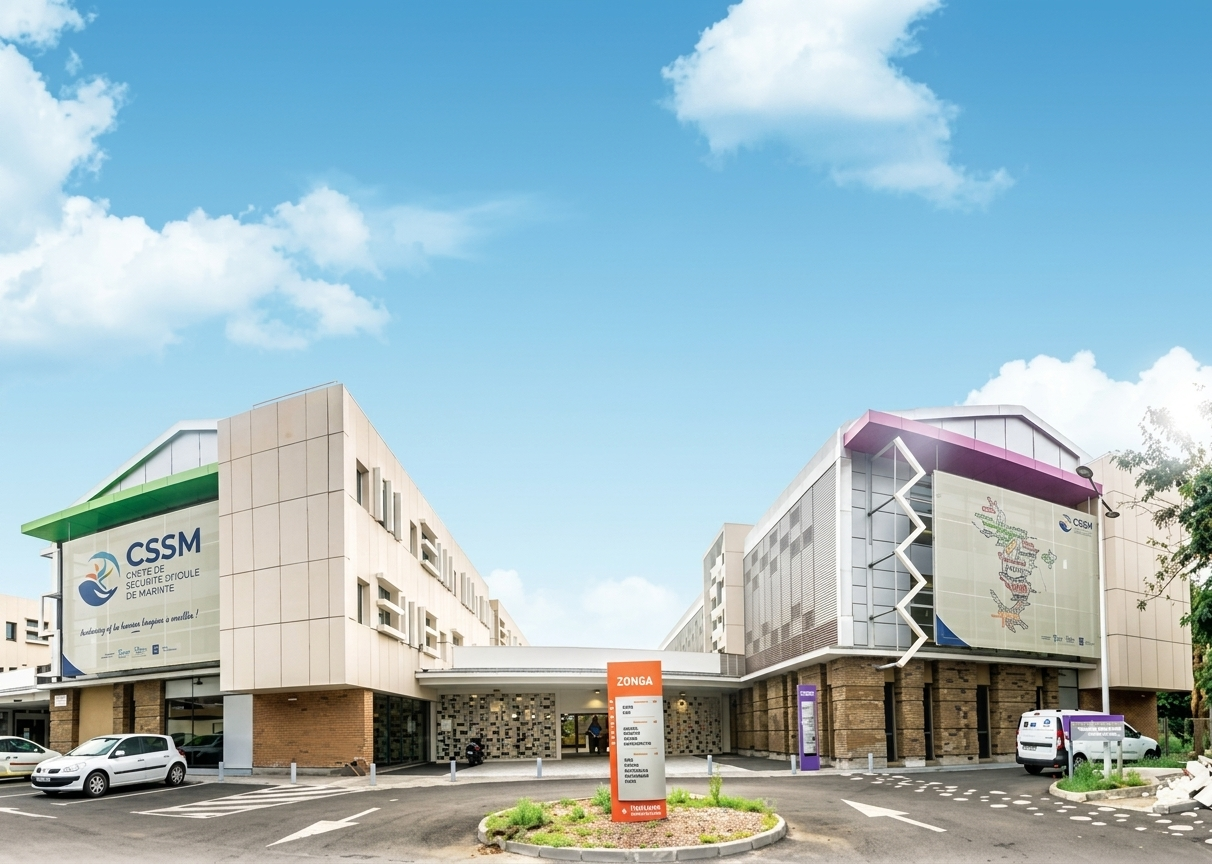
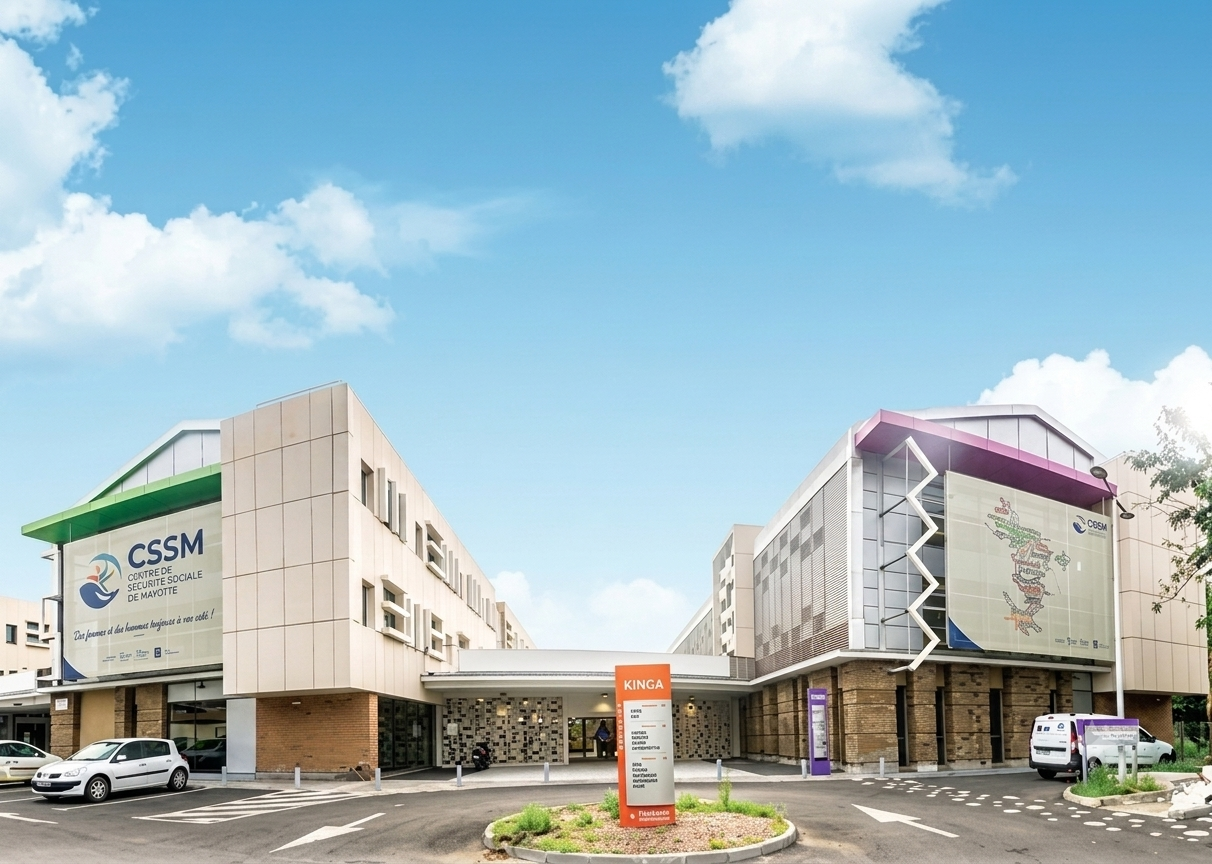
changement d'image

diff --git a/public/CSS/login.css b/public/CSS/login.css
@@ -1,5 +1,18 @@
 .mb-2 {
-    margin: 150px;
     margin-bottom: .5rem;
+}
+
+/* Ensure the page and body fill the viewport and have no default margins */
+html, body {
+    height: 100%;
+    margin: 0;
+}
+
+/* Scoped login background to cover viewport without repeating or scrolling */
+.login-body {
+    min-height: 100vh;
+    background-size: cover;
+    background-position: center;
+    background-repeat: no-repeat;
 }
 
